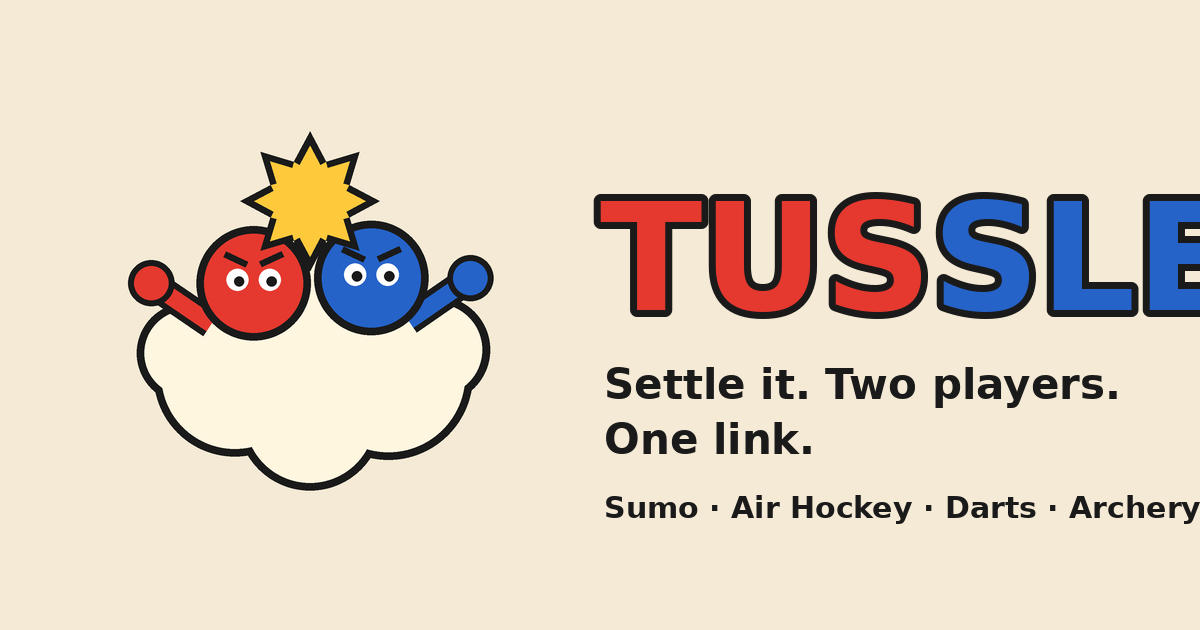
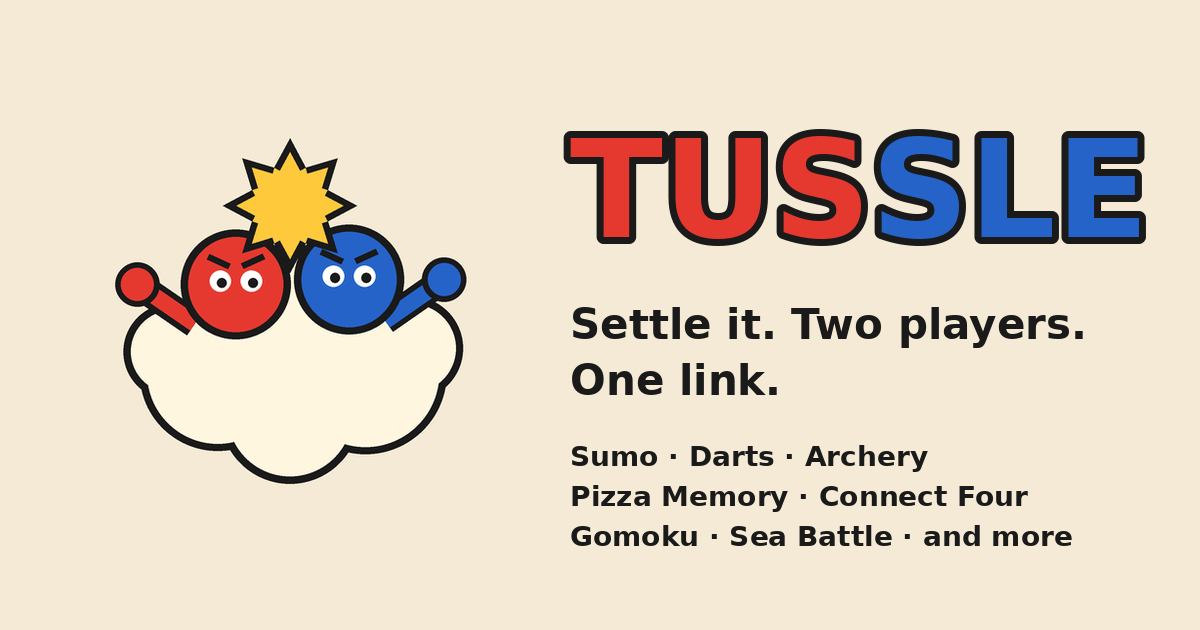
Add files via upload

diff --git a/index.html b/index.html
@@ -1,11 +1,11 @@
-<!doctype html><html><head><meta charset="utf-8"><meta name="viewport" content="width=device-width,initial-scale=1,viewport-fit=cover"><title>Tussle</title><meta property="og:title" content="Tussle: settle it, two players, one link"><meta property="og:description" content="Quick head-to-head mini games: Sumo, Air Hockey, Darts, Archery, Pizza Memory and more. Challenge a friend with one link!"><meta property="og:image" content="__HOST__/og.png"><meta property="og:type" content="website"><meta name="twitter:card" content="summary_large_image"><link rel="apple-touch-icon" href="/icon-192.png"><meta name="mobile-web-app-capable" content="yes"><meta name="apple-mobile-web-app-capable" content="yes"><meta name="apple-mobile-web-app-status-bar-style" content="default"><meta name="apple-mobile-web-app-title" content="Tussle"><link rel="manifest" href="/manifest.json"><meta name="theme-color" content="#f4ead5"><link rel="icon" href="/icon-192.png">
+<!doctype html><html><head><meta charset="utf-8"><meta name="viewport" content="width=device-width,initial-scale=1,viewport-fit=cover"><title>Tussle</title><meta name="description" content="Tussle: quick head-to-head mini games for two. Sumo, Darts, Archery, Pizza Memory, Connect Four, Gomoku, Sea Battle and more. Play a friend with one link, or take on a bot."><meta property="og:site_name" content="Tussle"><meta property="og:type" content="website"><meta property="og:url" content="__HOST__/"><meta property="og:title" content="Tussle: settle it, two players, one link"><meta property="og:description" content="Quick head-to-head mini games: Sumo, Darts, Archery, Pizza Memory, Connect Four, Gomoku, Sea Battle and more. Challenge a friend with one link!"><meta property="og:image" content="__HOST__/og.png"><meta property="og:image:type" content="image/png"><meta property="og:image:width" content="1200"><meta property="og:image:height" content="630"><meta property="og:image:alt" content="Tussle logo: a red and a blue fighter in a dust cloud"><meta name="twitter:card" content="summary_large_image"><meta name="twitter:title" content="Tussle: settle it, two players, one link"><meta name="twitter:image" content="__HOST__/og.png"><link rel="apple-touch-icon" href="/icon-192.png"><meta name="mobile-web-app-capable" content="yes"><meta name="apple-mobile-web-app-capable" content="yes"><meta name="apple-mobile-web-app-status-bar-style" content="default"><meta name="apple-mobile-web-app-title" content="Tussle"><link rel="manifest" href="/manifest.json"><meta name="theme-color" content="#f4ead5"><link rel="icon" href="/icon-192.png">
 <link rel="stylesheet" href="https://fonts.googleapis.com/css2?family=Lilita+One&family=Nunito:wght@700;900&display=swap">
 <style>
 *{box-sizing:border-box;touch-action:manipulation;-webkit-tap-highlight-color:transparent}html{-webkit-text-size-adjust:100%}
 body{margin:0;background:#f4ead5 radial-gradient(#1a1a1a1f 1.2px,transparent 1.5px) 0 0/14px 14px;color:#1a1a1a;font:700 16px Nunito,sans-serif;min-height:100vh;min-height:100dvh;overscroll-behavior-y:contain;-webkit-user-select:none;user-select:none;padding:env(safe-area-inset-top) env(safe-area-inset-left) env(safe-area-inset-bottom) env(safe-area-inset-right)}input{-webkit-user-select:text;user-select:text}
 #a{max-width:440px;margin:auto;padding:46px 14px 40px;text-align:center}
 .L,h1,.big,.sc{font-family:'Lilita One',sans-serif;font-weight:400}
-h1{margin:0;font-size:80px;line-height:1;transform:rotate(-3deg);-webkit-text-stroke:3px #1a1a1a;text-shadow:5px 5px 0 #1a1a1a;letter-spacing:1px}
+h1{margin:0;font-size:56px;line-height:1;transform:rotate(-3deg);-webkit-text-stroke:3px #1a1a1a;text-shadow:5px 5px 0 #1a1a1a;letter-spacing:1px}
 h2{font:400 26px 'Lilita One';margin:10px 0}
 .b{border:4px solid #1a1a1a;border-radius:18px;font:inherit;font-weight:900;min-height:44px;padding:10px 16px;background:#ffc93c;box-shadow:4px 4px 0 #1a1a1a;cursor:pointer;color:#1a1a1a;margin:6px}
 .b:active{transform:translate(3px,3px);box-shadow:1px 1px 0 #1a1a1a}
@@ -23,11 +23,18 @@ input{font:900 20px Nunito;text-align:center;width:100%;padding:10px;border-radi
 .ci{position:relative;width:168px;height:168px;border:4px solid #1a1a1a;border-radius:50%;background:#fff6e0;margin:10px auto;box-shadow:4px 4px 0 #1a1a1a}
 .ci span{position:absolute;line-height:1;cursor:pointer;transform:translate(-50%,-50%);color:#1a1a1a;padding:2px}
 .k:last-child:nth-child(odd){grid-column:1/-1;transform:rotate(-1deg)}.bad{animation:sh .3s}@keyframes fly{from{transform:translateY(150px) scale(1.6);opacity:.3}to{transform:none;opacity:1}}@keyframes sh{25%{transform:translateX(-8px)}75%{transform:translateX(8px)}}
-.ban{border:4px solid #1a1a1a;border-radius:20px;box-shadow:4px 4px 0 #1a1a1a;padding:14px 8px 12px;margin:0 0 12px}.bl{width:100%;height:60px;margin:6px 0;background:#2563c9;color:#fff6e0;font:400 24px 'Lilita One',sans-serif}
+.ban{background-image:radial-gradient(#ffffff40 2px,transparent 2.5px);background-size:16px 16px;border:4px solid #1a1a1a;border-radius:20px;box-shadow:4px 4px 0 #1a1a1a;padding:14px 8px 12px;margin:0 0 12px}.bl{width:100%;height:60px;margin:6px 0;background:#2563c9;color:#fff6e0;font:400 24px 'Lilita One',sans-serif}
+.hero{display:block;margin:0 auto;width:min(70%,260px);animation:wob 3.2s ease-in-out infinite}@keyframes wob{0%,100%{transform:translateY(0) rotate(-1.5deg)}50%{transform:translateY(-7px) rotate(1.5deg)}}
+.sec{display:flex;align-items:center;gap:8px;font:400 22px 'Lilita One',sans-serif;margin:20px 4px 8px;text-align:left}.sec i{display:block;width:14px;height:14px;border:3px solid #1a1a1a;border-radius:4px;transform:rotate(12deg)}
+.me{display:flex;align-items:center;gap:10px;background:#fff6e0;border:4px solid #1a1a1a;border-radius:18px;padding:5px 10px;margin:8px 0;box-shadow:3px 3px 0 #1a1a1a}.me input{border:0;margin:0;background:transparent;text-align:left;box-shadow:none;padding:6px;min-width:0;flex:1}
+.av{display:inline-flex;align-items:center;justify-content:center;width:38px;height:38px;border-radius:50%;border:3px solid #1a1a1a;color:#fff6e0;font:400 20px 'Lilita One',sans-serif;flex:none}
+.vs{display:flex;align-items:center;justify-content:center;gap:8px;margin:8px 0;font:900 17px Nunito}.vs .L{font-size:22px;color:#e5392f}
+.board{background:#fff6e0;border:4px solid #1a1a1a;border-radius:18px;box-shadow:4px 4px 0 #1a1a1a;padding:10px;margin:22px 0 8px}.sbr{display:flex;align-items:center;justify-content:center;gap:12px;margin:6px 0;font:400 34px 'Lilita One',sans-serif}
+.k{position:relative}.tg{position:absolute;top:8px;right:8px;font:900 10px Nunito;background:#1a1a1a;color:#fff6e0;border-radius:8px;padding:2px 7px;letter-spacing:.5px}.k:active{transform:translate(3px,3px)!important}
 .cf{position:fixed;top:-20px;width:10px;height:14px;z-index:9;pointer-events:none;animation:fall linear forwards}@keyframes fall{to{transform:translateY(110vh) rotate(720deg)}}
 .bnc{animation:bnc .6s ease-in-out infinite}@keyframes bnc{50%{transform:translateY(-16px)}}.sad{animation:sad 1.2s ease-in-out infinite}@keyframes sad{50%{transform:rotate(6deg)}}
-#mt{position:fixed;top:8px;right:8px;margin:0;padding:4px 10px;font-size:12px;z-index:5;box-shadow:2px 2px 0 #1a1a1a;border-width:3px}
-</style></head><body><button id="mt" class="b" onclick="tm()">SOUND ON</button><div id="a"></div><script src="/b.js"></script><script>
+#mt{position:fixed;top:calc(8px + env(safe-area-inset-top));right:10px;margin:0;padding:0;width:44px;height:44px;border-radius:50%;display:flex;align-items:center;justify-content:center;z-index:5;box-shadow:2px 2px 0 #1a1a1a;border-width:3px}
+</style></head><body><button id="mt" class="b" onclick="tm()" aria-label="Sound"></button><div id="a"></div><script src="/b.js"></script><script>
 const $=s=>document.querySelector(s),K='stroke="#1a1a1a" stroke-width="3"',V=b=>'<svg viewBox="0 0 80 80" width="84" height="84">'+b+'</svg>';
 const rng=s=>()=>{s|=0;s=s+0x6D2B79F5|0;let t=Math.imul(s^s>>>15,1|s);t=t+Math.imul(t^t>>>7,61|t)^t;return((t^t>>>14)>>>0)/4294967296};
 const DT='<svg viewBox="0 0 40 90" width="20" height="45"><polygon points="20,2 24,26 16,26" fill="#c9c9c9" stroke="#1a1a1a" stroke-width="2"/><rect x="15" y="26" width="10" height="26" fill="#2563c9" stroke="#1a1a1a" stroke-width="2"/><rect x="18" y="52" width="4" height="12" fill="#1a1a1a"/><polygon points="20,60 4,86 20,76 36,86" fill="#e5392f" stroke="#1a1a1a" stroke-width="2"/></svg>';
@@ -63,7 +70,7 @@ function snd(k){if(mute)return;try{AC=AC||new(window.AudioContext||window.webkit
  for(const[f,d,w]of S){const o=AC.createOscillator(),g=AC.createGain();o.type=w||'sine';o.frequency.value=f;g.gain.setValueAtTime(.12,t);g.gain.exponentialRampToValueAtTime(.001,t+d);o.connect(g);g.connect(AC.destination);o.start(t);o.stop(t+d);t+=d*.9}}catch(e){}}
 const vib=p=>{if(!mute&&navigator.vibrate)try{navigator.vibrate(p)}catch(e){}};
 document.addEventListener('pointerdown',()=>{try{AC=AC||new(window.AudioContext||window.webkitAudioContext)();AC.resume()}catch(e){}},{once:true});
-function tm(){mute=!mute;localStorage.mute=mute?'1':'';$('#mt').textContent=mute?'SOUND OFF':'SOUND ON'}
+function tm(){mute=!mute;localStorage.mute=mute?'1':'';$('#mt').innerHTML=mute?SPK0:SPK1}
 function confetti(){const cs=['#e5392f','#2563c9','#ffc93c','#2f9e5b','#ff7a2f'];for(let i=0;i<70;i++){const e=document.createElement('div');e.className='cf';e.style.cssText='left:'+Math.random()*100+'vw;background:'+cs[i%5]+';animation-duration:'+(2+Math.random()*2.5)+'s;animation-delay:'+Math.random()*.6+'s';document.body.appendChild(e);setTimeout(()=>e.remove(),5500)}}
 const ch=(cx,col,m)=>m=='w'?'<g class="bnc" style="transform-origin:'+cx+'px 100px"><circle cx="'+cx+'" cy="70" r="36" fill="'+col+'" '+K+'/><path d="M'+(cx-30)+' 52L'+(cx-48)+' 22M'+(cx+30)+' 52L'+(cx+48)+' 22" '+K+' stroke-linecap="round"/><circle cx="'+(cx-12)+'" cy="64" r="5" fill="#fff"/><circle cx="'+(cx+12)+'" cy="64" r="5" fill="#fff"/><path d="M'+(cx-14)+' 80Q'+cx+' 94 '+(cx+14)+' 80" '+K+' fill="none"/></g>'
 :m=='l'?'<g class="sad" style="transform-origin:'+cx+'px 120px"><ellipse cx="'+cx+'" cy="108" rx="40" ry="24" fill="'+col+'" '+K+'/><path d="M'+(cx-18)+' 98l8 8m0-8l-8 8M'+(cx+10)+' 98l8 8m0-8l-8 8" '+K+' fill="none"/><path d="M'+(cx-12)+' 121Q'+cx+' 113 '+(cx+12)+' 121" '+K+' fill="none"/></g>'
@@ -78,7 +85,13 @@ G.uttt=['Ultimate Tic Tac Toe','Nine boards, one win','#e5392f','#fff6e0',V('<pa
 G.sea=['Sea Battle','Sink their fleet','#0e7490','#fff6e0',V('<rect x="6" y="50" width="68" height="22" rx="6" fill="#38bdf8" '+K+'/><path d="M16 50L22 34H58L66 50Z" fill="#fff6e0" '+K+'/><rect x="34" y="22" width="12" height="12" fill="#e5392f" '+K+'/><path d="M40 22V12" stroke="#1a1a1a" stroke-width="3"/>')];
 const GAMES10=['sumo','darts','archery','pizza','spot','c4','gomoku','dots','uttt','sea'];
 const D={sumo:'Two blobs, one shrinking platform. Shove your opponent off the edge before they shove you!',darts:'Take turns throwing darts. Stop the crosshair near the bullseye for the biggest score.',archery:'Take turns shooting arrows at the target. Wind pushes your arrow, so aim against it!',pizza:'Memorize the pizza, then rebuild it from memory before your opponent does.',spot:'Two circles share one symbol. Be the first to tap it!',c4:'Drop your discs and be the first to get four in a row horizontally, vertically or diagonally.',gomoku:'Place your stones on the board and be the first to get five in a row horizontally, vertically or diagonally.',dots:'Take turns drawing lines between dots. Complete a box to claim it and go again. Own the most boxes to win.',uttt:'Play on a big board with nine small tic-tac-toe games. Where you play decides which small board your opponent must play in next. Win three small boards in a row to win.',sea:'Your fleet is hidden. Take turns firing at the enemy waters. A hit lets you shoot again. Sink all five ships to win.'};
-Object.assign(HOW,{c4:'Tap a column to drop your disc.<br>It falls to the lowest free spot.<br>Connect four in any direction to win.',gomoku:'Tap an empty point to place a stone.<br>Take turns with your opponent.<br>Five in a row in any direction wins.',dots:'Tap a line between two dots.<br>Close all four sides of a box to claim it and play again.<br>Most boxes at the end wins.',uttt:'You must play in the small board matching where your opponent just played.<br>Win a small board to claim it.<br>Claim three small boards in a row to win.',sea:'Press Shuffle until you like your fleet, then Ready.<br>Tap the enemy waters to fire. A hit means you shoot again.<br>Sink all five ships to win.'});
+Object.assign(HOW,{c4:'Tap a column to drop your disc.<br>It falls to the lowest free spot.<br>Connect four in any direction to win.',gomoku:'Tap an empty point to place a stone.<br>Take turns with your opponent.<br>Five in a row in any direction wins.',dots:'Tap a line between two dots.<br>Close all four sides of a box to claim it and play again.<br>Most boxes at the end wins.',uttt:'You must play in the small board matching where your opponent just played.<br>Win a small board to claim it.<br>Claim three small boards in a row to win.',sea:'Drag your ships into position and tap a ship to rotate it. Press Ready.<br>Tap the enemy waters to fire. A hit means you shoot again.<br>Sink all five ships to win.'});
+const TAG={sumo:'LIVE',darts:'TURNS',archery:'TURNS',pizza:'RACE',spot:'RACE',c4:'TURNS',gomoku:'TURNS',dots:'TURNS',uttt:'TURNS',sea:'TURNS'};
+const SEC=[['ACTION & SKILL',['sumo','darts','archery','pizza','spot'],'#e5392f'],['BOARD GAMES',['c4','gomoku','dots','uttt','sea'],'#2563c9']];
+const cardH=g=>'<button class="b k" style="background:'+G[g][2]+';color:'+G[g][3]+'" onclick="openGame(\''+g+'\')"><span class="tg">'+TAG[g]+'</span>'+G[g][4]+G[g][0]+'<small>'+G[g][1]+'</small></button>';
+function nmIn(v){nm=cn(v);localStorage.name=nm;const a=document.querySelector('.av');if(a)a.textContent=(nm[0]||'?').toUpperCase()}
+const SPK1='<svg viewBox="0 0 24 24" width="22" height="22" fill="none" stroke="#1a1a1a" stroke-width="2.5" stroke-linecap="round" stroke-linejoin="round"><path d="M4 9v6h4l5 4V5L8 9z" fill="#ffc93c"/><path d="M16 9a4 4 0 010 6M18.5 6.5a8 8 0 010 11"/></svg>';
+const SPK0='<svg viewBox="0 0 24 24" width="22" height="22" fill="none" stroke="#1a1a1a" stroke-width="2.5" stroke-linecap="round" stroke-linejoin="round"><path d="M4 9v6h4l5 4V5L8 9z" fill="#cbd5e1"/><path d="M17 9l5 6M22 9l-5 6"/></svg>';
 function cvInit(w,h){$('#gm').innerHTML='<canvas id="cv" width="'+w*2+'" height="'+h*2+'" style="width:100%;max-width:'+w+'px;touch-action:none;border:4px solid #1a1a1a;border-radius:16px;background:#fff6e0;box-shadow:4px 4px 0 #1a1a1a;display:block;margin:0 auto"></canvas>'+(cur=='sumo'?'<button class="b cta" id="dsh" style="width:70%">DASH!</button>':'');
  X.cv=$('#cv');X.cx=X.cv.getContext('2d');let lt=0;
  const mv=e=>{const n=Date.now();if(n-lt<33)return;lt=n;const r=X.cv.getBoundingClientRect();let x=(e.clientX-r.left)/r.width*w,y=(e.clientY-r.top)/r.height*h;if(cur=='hockey'&&X.me==1){x=w-x;y=h-y}send({t:'in',x:Math.round(x),y:Math.round(y)})};
@@ -163,11 +176,10 @@ function share(){const u=location.origin+'/?r='+room;
  else if(navigator.clipboard)navigator.clipboard.writeText(u).then(()=>{msg='Invite link copied! Send it to your friend.';ui()});else{msg=u;ui()}}
 function invite(){if(!nm.trim()){msg='Type your name first!';ui();return}if(!room){want=1;send({t:'create'})}else share()}
 function joinNow(){const v=$('#nin').value.trim();if(!v)return;nm=cn(v)||'Player';localStorage.name=nm;send({t:'join',code:pend})}
-function ui(){const a=$('#a');if(view=='play')return;const hero=
-'<svg viewBox="0 0 390 230" width="100%" aria-label="Two characters fighting in a dust cloud"><defs><g id="c"><circle cx="195" cy="150" r="62"/><circle cx="142" cy="166" r="46"/><circle cx="248" cy="166" r="48"/><circle cx="195" cy="190" r="40"/></g></defs><use href="#c" fill="#1a1a1a" stroke="#1a1a1a" stroke-width="9"/><use href="#c" fill="#fff6e0"/><g '+K+'><circle cx="125" cy="108" r="28" fill="#e5392f"/><circle cx="268" cy="104" r="28" fill="#2563c9"/><path d="M98 140L56 118M296 136L338 114" stroke-width="12" stroke-linecap="round"/><polygon points="241,60 220.9,70.7 227.5,92.5 205.7,85.9 195,106 184.3,85.9 162.5,92.5 169.1,70.7 149,60 169.1,49.3 162.5,27.5 184.3,34.1 195,14 205.7,34.1 227.5,27.5 220.9,49.3" fill="#ffc93c"/></g><g fill="#fff"><circle cx="117" cy="110" r="6"/><circle cx="133" cy="110" r="6"/><circle cx="260" cy="106" r="6"/><circle cx="276" cy="106" r="6"/></g><g fill="#1a1a1a"><circle cx="119" cy="112" r="3"/><circle cx="131" cy="112" r="3"/><circle cx="262" cy="108" r="3"/><circle cx="274" cy="108" r="3"/></g><text x="195" y="62" text-anchor="middle" font-family="Lilita One" font-size="21" fill="#e5392f" transform="rotate(-8 195 58)">POW!</text></svg>';
- if(view=='name'){a.innerHTML='<h1><span style="color:#e5392f">TUS</span><span style="color:#2563c9">SLE</span></h1>'+hero+'<h2>You\'ve been challenged!</h2><p>Who\'s tussling?</p><input id="nin" maxlength="14" placeholder="Your name" autofocus><button class="b cta" onclick="joinNow()">JOIN THE FIGHT</button>';return}
+function ui(){const a=$('#a');if(view=='play')return;const hero='<img class="hero" src="/logo.png" alt="Tussle logo">';
+ if(view=='name'){a.innerHTML=hero+'<h1><span style="color:#e5392f">TUS</span><span style="color:#2563c9">SLE</span></h1>'+'<h2>You\'ve been challenged!</h2><p>Who\'s tussling?</p><input id="nin" maxlength="14" placeholder="Your name" autofocus><button class="b cta" onclick="joinNow()">JOIN THE FIGHT</button>';return}
  if(view=='game'){const g=selG,H=G[g];
-  a.innerHTML='<div class="ban" style="background:'+H[2]+'"><div style="transform:scale(1.5);height:120px;padding-top:20px">'+H[4]+'</div><div class="L" style="font-size:32px;color:#fff6e0;-webkit-text-stroke:2px #1a1a1a;text-shadow:3px 3px 0 #1a1a1a;margin-top:6px">'+H[0].toUpperCase()+'</div></div>'
+  a.innerHTML='<div class="ban" style="background-color:'+H[2]+'"><div style="transform:scale(1.5);height:120px;padding-top:20px">'+H[4]+'</div><div class="L" style="font-size:32px;color:#fff6e0;-webkit-text-stroke:2px #1a1a1a;text-shadow:3px 3px 0 #1a1a1a;margin-top:6px">'+H[0].toUpperCase()+'</div></div>'
   +(msg?'<div class="pill">'+msg+'</div>':'')
   +'<div class="pill" style="text-align:left;word-break:normal;font-size:17px;box-shadow:none">'+D[g]+(howOpen?'<hr><div style="font-size:15px">'+HOW[g]+'</div>':'')+'</div>'
   +'<button class="b" onclick="howOpen=!howOpen;ui()" style="background:#cbd5e1;font-size:15px;padding:8px 14px">'+(howOpen?'HIDE HOW TO PLAY':'HOW TO PLAY')+'</button>'
@@ -179,11 +191,11 @@ function ui(){const a=$('#a');if(view=='play')return;const hero=
  if(view=='res'){const d=last,g=d.g,T={me:'YOU WIN!',opp:o.toUpperCase()+' WINS!',tie:"IT'S A TIE!",left:o.toUpperCase()+' LEFT'}[d.win];
   if(!d.fx){d.fx=1;if(d.win=='me'){confetti();snd('win');vib([80,40,120])}else if(d.win=='opp')snd('lose')}a.innerHTML=fx(d.win)+'<h2 style="font-size:40px">'+T+'</h2><div class="pill">'+(nm||'You')+': '+d.sc.me+(aimG()?' pts':'')+'<br>'+o+': '+d.sc.opp+(aimG()?' pts':'')+'</div>'+(room&&n>1?'<div class="pill">'+(nm||'You')+' '+wins.me+' – '+wins.opp+' '+o+'</div><button class="b" onclick="rematch(\''+g+'\')">Rematch</button>':'')+'<button class="b" onclick="home()">All games</button>';return}
  const link=room?location.origin+'/?r='+room:'';
- a.innerHTML='<h1><span style="color:#e5392f">TUS</span><span style="color:#2563c9">SLE</span></h1>'+hero+'<div class="L" style="font-size:19px;margin:4px 0 10px">Settle it. Two players. One link.</div>'+(msg?'<div class="pill">'+msg+'</div>':'')
- +(room&&n>1?'<div class="pill">'+(nm||'You')+' vs '+o+'</div>'+(o.includes('(bot)')?'<div class="L" style="font-size:15px;margin-bottom:6px">Playing a bot. Hit SHARE INVITE LINK to play a real friend!</div>':''):room?'<div class="pill">Waiting for your friend to join…<br><small>'+link+'</small></div>':'')
- +'<input id="nin" maxlength="14" placeholder="Your name" value="'+nm.replace(/"/g,'')+'" oninput="nm=cn(this.value);localStorage.name=nm"><button class="b cta" onclick="invite()">'+(room?'SHARE INVITE LINK':'CHALLENGE A FRIEND')+'</button><h2 style="text-align:left">PICK YOUR FIGHT</h2><div class="grid">'
- +GAMES10.map(g=>'<button class="b k" style="background:'+G[g][2]+';color:'+G[g][3]+'" onclick="openGame(\''+g+'\')">'+G[g][4]+G[g][0]+'<small>'+G[g][1]+'</small></button>').join('')+'</div>'
- +'<div class="pill" style="margin-top:22px"><div class="L" style="font-size:19px">RIVALRY RECORD</div>'+(nm||'You')+' '+wins.me+' – '+wins.opp+' '+o+'</div>'}
-$('#mt').textContent=mute?'SOUND OFF':'SOUND ON';ui();conn();
+ a.innerHTML=hero+'<h1><span style="color:#e5392f">TUS</span><span style="color:#2563c9">SLE</span></h1>'+'<div class="L" style="font-size:19px;margin:4px 0 10px">Settle it. Two players. One link.</div>'+(msg?'<div class="pill">'+msg+'</div>':'')
+ +(room&&n>1?'<div class="vs"><span class="av" style="background:#e5392f">'+(nm||'Y')[0].toUpperCase()+'</span><b>'+(nm||'You')+'</b><span class="L">VS</span><b>'+o+'</b><span class="av" style="background:#2563c9">'+o[0].toUpperCase()+'</span></div>'+(o.includes('(bot)')?'<div class="L" style="font-size:15px;margin-bottom:6px">Playing a bot. Hit SHARE INVITE LINK to play a real friend!</div>':''):room?'<div class="pill">Waiting for your friend to join…<br><small>'+link+'</small></div>':'')
+ +'<div class="me"><span class="av" style="background:#e5392f">'+((nm||'?')[0]).toUpperCase()+'</span><input id="nin" maxlength="14" placeholder="Your name" value="'+nm.replace(/"/g,'')+'" oninput="nmIn(this.value)"></div><button class="b cta" onclick="invite()">'+(room?'SHARE INVITE LINK':'CHALLENGE A FRIEND')+'</button>'
+ +SEC.map(s=>'<div class="sec"><i style="background:'+s[2]+'"></i>'+s[0]+'</div><div class="grid">'+s[1].map(cardH).join('')+'</div>').join('')
+ +'<div class="board"><div class="L" style="font-size:19px">RIVALRY RECORD</div><div class="sbr"><span class="av" style="background:#e5392f">'+(nm||'Y')[0].toUpperCase()+'</span>'+wins.me+' – '+wins.opp+'<span class="av" style="background:#2563c9">'+o[0].toUpperCase()+'</span></div><small style="font-weight:900">'+(nm||'You')+' vs '+o+'</small></div>'}
+$('#mt').innerHTML=mute?SPK0:SPK1;ui();conn();
 if("serviceWorker"in navigator)navigator.serviceWorker.register("/sw.js");
 </script></body></html>

diff --git a/b.js b/b.js
@@ -1,5 +1,28 @@
 // Board game renderers (client). Uses globals from index.html: $, pid, cur, on, X, send, snd, vib
 const BG={c4:1,gomoku:1,dots:1,uttt:1,sea:1};
+const SHN=[5,4,3,3,2],CS=30;
+function shipSvg(id,len){const L=len*CS,m=CS/2,S='stroke="#1a1a1a" stroke-width="2"';
+ const rc=(x,w,h,f)=>'<rect x="'+x+'" y="'+(m-h/2)+'" width="'+w+'" height="'+h+'" rx="2" fill="'+f+'" '+S+'/>';
+ const gun=x=>'<circle cx="'+x+'" cy="'+m+'" r="4.5" fill="#475569" '+S+'/><path d="M'+x+' '+m+'H'+(x+9)+'" stroke="#1a1a1a" stroke-width="3"/>';
+ let g=id==3?'<rect x="3" y="'+(m-8)+'" width="'+(L-8)+'" height="16" rx="8" fill="#64748b" '+S+'/>':'<path d="M3 '+(m-10)+'H'+(L-12)+'L'+(L-2)+' '+m+'L'+(L-12)+' '+(m+10)+'H3Z" fill="#94a3b8" '+S+' stroke-linejoin="round"/>';
+ if(id==0)g+='<path d="M9 '+m+'H'+(L-18)+'" stroke="#fff6e0" stroke-width="3" stroke-dasharray="6 4"/>'+rc(L*.55,12,8,'#e5392f')+rc(L*.18,10,8,'#fff6e0');
+ else if(id==1)g+=gun(L*.2)+gun(L*.72)+rc(L*.42,16,12,'#e2e8f0')+rc(L*.36,5,7,'#e5392f');
+ else if(id==2)g+=gun(L*.2)+rc(L*.42,18,12,'#e2e8f0')+rc(L*.6,6,9,'#e5392f');
+ else if(id==3)g+=rc(L*.4,14,10,'#475569')+'<path d="M'+(L*.4+7)+' '+(m-5)+'V'+(m-13)+'H'+(L*.4+14)+'" stroke="#1a1a1a" stroke-width="2.5" fill="none"/>';
+ else g+=gun(L*.28)+rc(L*.5,12,9,'#e2e8f0');
+ return g}
+const cellsOf=o=>{const c=[];for(let k=0;k<SHN[o.id];k++)c.push(o.h?o.y*10+o.x+k:(o.y+k)*10+o.x);return c};
+const fitOk=(fl,o)=>{const len=SHN[o.id];if(o.x<0||o.y<0||(o.h?o.x+len>10||o.y>9:o.y+len>10||o.x>9))return false;const occ=new Set();fl.forEach(p=>{if(p.id!=o.id)cellsOf(p).forEach(c=>occ.add(c))});return cellsOf(o).every(c=>!occ.has(c))};
+const randFleet=()=>{for(;;){const fl=[];let ok=true;for(let id=0;id<5&&ok;id++){let t=0,o;do{o={id,x:Math.floor(Math.random()*10),y:Math.floor(Math.random()*10),h:Math.random()<.5};t++}while(!fitOk(fl,o)&&t<300);if(t>=300)ok=false;else fl.push(o)}if(ok)return fl}};
+const fleetFromBoard=b=>[0,1,2,3,4].map(id=>{const c=[];b.forEach((v,i)=>{if(v==id)c.push(i)});return{id,x:c[0]%10,y:Math.floor(c[0]/10),h:c.length>1?c[1]-c[0]==1:true}});
+const sunkShips=sk=>{let t=0;return sk.map(cs=>{cs=cs.slice().sort((a,b)=>a-b);const len=cs.length,id=len==5?0:len==4?1:len==2?4:(t++?3:2);return{id,x:cs[0]%10,y:Math.floor(cs[0]/10),h:len>1?cs[1]-cs[0]==1:true}})};
+const marksOf=a=>{const o={};a.forEach((v,i)=>{if(v)o[i]=v});return o};
+function seaSvg(w,ships,marks){let s='<rect width="300" height="300" rx="10" fill="#38bdf8"/>';
+ for(let i=1;i<10;i++)s+='<path d="M'+i*CS+' 0V300M0 '+i*CS+'H300" stroke="#ffffff66" stroke-width="1.5"/>';
+ for(const o of ships)s+='<g transform="'+(o.h?'translate('+o.x*CS+','+o.y*CS+')':'translate('+(o.x+1)*CS+','+o.y*CS+') rotate(90)')+'" opacity="'+(o.dim?.55:1)+'">'+shipSvg(o.id,SHN[o.id])+'</g>';
+ for(const i in marks){const x=i%10*CS+CS/2,y=Math.floor(i/10)*CS+CS/2;s+=marks[i]==2?'<circle cx="'+x+'" cy="'+y+'" r="10" fill="#e5392f" stroke="#1a1a1a" stroke-width="2.5"/><circle cx="'+x+'" cy="'+y+'" r="4" fill="#ffc93c"/>':'<circle cx="'+x+'" cy="'+y+'" r="5" fill="#fff" stroke="#0e7490" stroke-width="2"/>'}
+ return '<svg viewBox="-2 -2 304 304" width="100%" style="max-width:'+w+'px;display:block;margin:6px auto;border:3px solid #1a1a1a;border-radius:12px;background:#0e7490;touch-action:none">'+s+'</svg>'}
+const cellAt=(e,box)=>{const sv=box.querySelector('svg'),r=sv.getBoundingClientRect(),k=304/r.width;return[Math.floor(((e.clientX-r.left)*k-2)/CS),Math.floor(((e.clientY-r.top)*k-2)/CS)]};
 const BR={
 c4(d,me,mine){const W=50;const cells=d.g.map((v,i)=>{const r=Math.floor(i/7),c=i%7,cx=c*W+W/2+5,cy=r*W+W/2+5,col=v<0?'#fff6e0':v==me?'#e5392f':'#2563c9',hl=d.line&&d.line.includes(i);return '<circle cx="'+cx+'" cy="'+cy+'" r="20" fill="'+col+'" stroke="'+(hl?'#ffc93c':'#1a1a1a')+'" stroke-width="'+(hl?6:3)+'"/>'+(i==d.last?'<circle cx="'+cx+'" cy="'+cy+'" r="7" fill="none" stroke="#fff" stroke-width="3"/>':'')}).join('');
  $('#bb').innerHTML='<svg viewBox="0 0 360 310" width="100%" style="max-width:360px"><rect x="2" y="2" width="356" height="306" rx="16" fill="#f4a261" stroke="#1a1a1a" stroke-width="4"/>'+cells+[0,1,2,3,4,5,6].map(c=>'<rect data-c="'+c+'" x="'+(c*W+5)+'" y="0" width="'+W+'" height="310" fill="transparent" style="cursor:pointer"/>').join('')+'</svg>';
@@ -18,22 +41,26 @@ dots(d,me,mine){const S=56,P=22,L=5*S+2*P,col=v=>v==me?'#e5392f':'#2563c9';let s
  const a=d.b.filter(v=>v==me).length,z=d.b.filter(v=>v>=0&&v!=me).length;
  $('#bb').innerHTML='<div class="L" style="font-size:20px">You '+a+' – '+z+' '+on.opp+'</div><svg viewBox="0 0 '+L+' '+L+'" width="100%" style="max-width:340px">'+s+'</svg>';
  $('#bb').querySelectorAll('[data-k]').forEach(e=>e.onpointerdown=()=>{if(mine&&d.win==null)send({t:'in',k:e.dataset.k,r:+e.dataset.r,c:+e.dataset.c})})},
-uttt(d,me,mine){let h='<div style="display:grid;grid-template-columns:repeat(3,1fr);gap:6px;max-width:340px;margin:0 auto">';
+uttt(d,me,mine){let h='<div style="display:grid;grid-template-columns:repeat(3,1fr);gap:8px;max-width:340px;margin:0 auto">';
  for(let b=0;b<9;b++){const w=d.w[b],act=mine&&d.win==null&&w<0&&(d.nx<0||d.nx==b);
-  h+='<div style="position:relative;border:3px solid '+(act?'#ffc93c':'#1a1a1a')+';border-radius:10px;background:'+(act?'#fff3c4':'#fff6e0')+';padding:2px;display:grid;grid-template-columns:repeat(3,1fr);gap:1px">';
-  for(let c=0;c<9;c++){const v=d.c[b*9+c],i=b*9+c;h+='<button data-b="'+b+'" data-c="'+c+'" style="height:34px;border:0;background:'+(i==d.last?'#ffe08a':'transparent')+';font:400 22px \'Lilita One\',sans-serif;color:'+(v==me?'#e5392f':'#2563c9')+';padding:0">'+(v<0?'':v==me?'X':'O')+'</button>'}
+  h+='<div style="position:relative;border:4px solid '+(act?'#ffc93c':'#1a1a1a')+';border-radius:10px;background:'+(act?'#fff3c4':'#fff6e0')+';padding:0;overflow:hidden;display:grid;grid-template-columns:repeat(3,1fr);gap:0">';
+  for(let c=0;c<9;c++){const v=d.c[b*9+c],i=b*9+c;h+='<button data-b="'+b+'" data-c="'+c+'" style="height:34px;border:0;border-right:'+(c%3<2?'2px solid #1a1a1a':'0')+';border-bottom:'+(c<6?'2px solid #1a1a1a':'0')+';background:'+(i==d.last?'#ffe08a':'transparent')+';font:400 22px \'Lilita One\',sans-serif;color:'+(v==me?'#e5392f':'#2563c9')+';padding:0">'+(v<0?'':v==me?'X':'O')+'</button>'}
   if(w==0||w==1)h+='<div style="position:absolute;left:0;top:0;right:0;bottom:0;background:'+(w==me?'#e5392fdd':'#2563c9dd')+';border-radius:6px;color:#fff6e0;font:400 64px/1 \'Lilita One\',sans-serif;display:flex;align-items:center;justify-content:center;pointer-events:none">'+(w==me?'X':'O')+'</div>';else if(w==2)h+='<div style="position:absolute;left:0;top:0;right:0;bottom:0;background:#999c;border-radius:6px;pointer-events:none"></div>';
   h+='</div>'}
  $('#bb').innerHTML=h+'</div>';
  $('#bb').querySelectorAll('button').forEach(e=>e.onpointerdown=()=>{if(mine&&d.win==null)send({t:'in',b:+e.dataset.b,c:+e.dataset.c})})},
-sea(d,me,mine){const sunk=new Set(d.sunk.flat()),dim='<span style="color:#0e7490">•</span>';
- const grid=(fn,click,w)=>{let h='<div style="display:grid;grid-template-columns:repeat(10,1fr);gap:2px;width:'+w+'px;max-width:100%;margin:6px auto;border:3px solid #1a1a1a;border-radius:10px;padding:3px;background:#0e7490">';for(let i=0;i<100;i++){const[bg,tx]=fn(i);h+='<div '+(click?'data-i="'+i+'" ':'')+'style="aspect-ratio:1;background:'+bg+';border-radius:3px;display:flex;align-items:center;justify-content:center;font:400 '+(click?15:10)+'px \'Lilita One\',sans-serif;color:#fff">'+tx+'</div>'}return h+'</div>'};
- const myF=i=>d.eshot[i]==2?['#e5392f','✕']:d.eshot[i]==1?['#e0f2fe',dim]:d.mine[i]>=0?['#334155','']:['#38bdf8',''];
- const enF=i=>sunk.has(i)?['#7f1d1d','✕']:d.myshot[i]==2?['#e5392f','✕']:d.myshot[i]==1?['#e0f2fe',dim]:['#38bdf8',''];
- if(d.ph=='place'){$('#bb').innerHTML='<div class="L" style="font-size:20px">Your fleet</div>'+grid(myF,0,300)+(d.rdy[me]?'':'<button class="b" id="shf">SHUFFLE</button><button class="b" id="rdy" style="background:#e5392f;color:#fff6e0">READY!</button>');
-  const s=$('#shf'),r=$('#rdy');if(s)s.onpointerdown=()=>send({t:'in',rand:1});if(r)r.onpointerdown=()=>send({t:'in',ready:1});return}
- $('#bb').innerHTML='<div class="L" style="font-size:18px">Enemy waters · sunk '+d.sunk.length+'/5</div>'+grid(enF,1,330)+'<div class="L" style="font-size:18px">Your fleet · lost '+d.esunk+'/5</div>'+grid(myF,0,200);
- $('#bb').querySelectorAll('[data-i]').forEach(e=>e.onpointerdown=()=>{const i=+e.dataset.i;if(mine&&d.win==null&&!d.myshot[i])send({t:'in',x:i%10,y:Math.floor(i/10)})})}
+sea(d,me,mine){
+ if(d.ph=='place'){if(!X.fl)X.fl=randFleet();const done=d.rdy[me];
+  $('#bb').innerHTML='<div class="L" style="font-size:18px">'+(done?'Fleet ready!':'Drag ships to move · tap a ship to rotate')+'</div><div id="sw"></div>'+(done?'':'<button class="b" id="rnd">RANDOM</button><button class="b" id="rdy" style="background:#e5392f;color:#fff6e0">READY!</button>');
+  const sw=$('#sw'),draw=()=>{sw.innerHTML=seaSvg(330,X.fl,{})};draw();if(done)return;
+  sw.onpointerdown=e=>{const[cx,cy]=cellAt(e,sw),o=X.fl.find(p=>cellsOf(p).includes(cy*10+cx));if(!o)return;X.dg={o,ox:cx-o.x,oy:cy-o.y,mv:0};try{sw.setPointerCapture(e.pointerId)}catch(x){}if(e.preventDefault)e.preventDefault()};
+  sw.onpointermove=e=>{const g=X.dg;if(!g)return;const[cx,cy]=cellAt(e,sw),n={...g.o,x:cx-g.ox,y:cy-g.oy};if((n.x!=g.o.x||n.y!=g.o.y)&&fitOk(X.fl,n)){g.o.x=n.x;g.o.y=n.y;g.mv=1;draw()}};
+  sw.onpointerup=()=>{const g=X.dg;X.dg=null;if(!g||g.mv)return;const o=g.o;for(const[dx,dy]of[[0,0],[-1,0],[1,0],[0,-1],[0,1],[-2,0],[0,-2],[-3,0],[0,-3],[-4,0],[0,-4]]){const t={...o,h:!o.h,x:o.x+dx,y:o.y+dy};if(fitOk(X.fl,t)){o.h=t.h;o.x=t.x;o.y=t.y;draw();snd('pop');return}}};
+  $('#rnd').onpointerdown=()=>{X.fl=randFleet();draw()};
+  $('#rdy').onpointerdown=()=>send({t:'in',place:X.fl.map(o=>({id:o.id,x:o.x,y:o.y,h:o.h})),ready:1});return}
+ const my=fleetFromBoard(d.mine).map(o=>{o.dim=cellsOf(o).every(i=>d.eshot[i]==2);return o});
+ $('#bb').innerHTML='<div class="L" style="font-size:18px">Enemy waters · sunk '+d.sunk.length+'/5</div><div id="ew">'+seaSvg(330,sunkShips(d.sunk),marksOf(d.myshot))+'</div><div class="L" style="font-size:18px">Your fleet · lost '+d.esunk+'/5</div>'+seaSvg(210,my,marksOf(d.eshot));
+ $('#ew').onpointerdown=e=>{if(!mine||d.win!=null)return;const[cx,cy]=cellAt(e,$('#ew'));if(cx>=0&&cx<10&&cy>=0&&cy<10&&!d.myshot[cy*10+cx])send({t:'in',x:cx,y:cy})}}
 };
 function bs(d){const me=d.ids.indexOf(pid),mine=d.turn==me,pl=cur=='sea'&&d.ph=='place';
  if(!$('#bb')){$('#gm').innerHTML='<div class="sc" id="st"></div><div id="bb"></div>';const c=$('#cd');if(c)c.textContent=''}

diff --git a/boards.js b/boards.js
@@ -179,12 +179,25 @@ const SB = {
     SH.forEach((len, id) => { for (;;) { const h = Math.random() < 0.5, x = rnd(h ? SN - len + 1 : SN), y = rnd(h ? SN : SN - len + 1), cells = []; for (let k = 0; k < len; k++) cells.push(h ? y * SN + x + k : (y + k) * SN + x); if (cells.every(c => b[c] < 0)) { cells.forEach(c => b[c] = id); ships.push(cells); break; } } });
     return { b, ships };
   },
+  build(list) {
+    if (!Array.isArray(list) || list.length != SH.length) return null;
+    const b = Array(100).fill(-1), ships = [];
+    for (const o of list) {
+      const id = +o.id, x = +o.x, y = +o.y, h = !!o.h;
+      if (!Number.isInteger(id) || id < 0 || id >= SH.length || ships[id] || !Number.isInteger(x) || !Number.isInteger(y)) return null;
+      const len = SH[id]; if (x < 0 || y < 0 || (h ? x + len > SN || y >= SN : y + len > SN || x >= SN)) return null;
+      const cells = []; for (let k = 0; k < len; k++) cells.push(h ? y * SN + x + k : (y + k) * SN + x);
+      if (cells.some(c => b[c] >= 0)) return null; cells.forEach(c => b[c] = id); ships[id] = cells;
+    }
+    return ships.every(Boolean) ? { b, ships } : null;
+  },
   init: () => ({ ph: 'place', p: [SB.rand(), SB.rand()], rdy: [0, 0], sh: [Array(100).fill(0), Array(100).fill(0)], sunk: [[], []] }),
   free: rd => rd.s.ph == 'place',
   move(rd, i, d) {
     const s = rd.s;
     if (s.ph == 'place') {
       if (s.rdy[i]) return;
+      if (d.place) { const p = SB.build(d.place); if (!p) return; s.p[i] = p; if (!d.ready) return { stay: 1 }; }
       if (d.rand) { s.p[i] = SB.rand(); return { stay: 1 }; }
       if (d.ready) { s.rdy[i] = 1; if (s.rdy[0] && s.rdy[1]) { s.ph = 'fire'; return { turn: 0 }; } return { stay: 1 }; }
       return;

diff --git a/server.js b/server.js
@@ -2,9 +2,11 @@ const http = require('http'), fs = require('fs'), path = require('path');
 const { WebSocketServer } = require('ws');
 const BG = require('./boards');
 const rooms = {};
-const T = { '/manifest.json': 'application/json', '/sw.js': 'text/javascript', '/icon-192.png': 'image/png', '/icon-512.png': 'image/png', '/og.png': 'image/png', '/b.js': 'text/javascript' };
+const T = { '/manifest.json': 'application/json', '/sw.js': 'text/javascript', '/icon-192.png': 'image/png', '/icon-512.png': 'image/png', '/og.png': 'image/png', '/b.js': 'text/javascript', '/logo.png': 'image/png' };
 const srv = http.createServer((q, s) => {
-  const p = q.url.split('?')[0];
+  let p = q.url.split('?')[0];
+  if (p == '/favicon.ico') p = '/icon-192.png';
+  if (p == '/.well-known/assetlinks.json' && process.env.ASSETLINKS) { s.writeHead(200, { 'Content-Type': 'application/json' }); return s.end(process.env.ASSETLINKS); }
   if (p == '/health') { s.writeHead(200); return s.end('ok'); }
   const f = T[p] ? p.slice(1) : 'index.html';
   fs.readFile(path.join(__dirname, f), (e, d) => {

diff --git a/sw.js b/sw.js
@@ -1,1 +1,8 @@
-self.addEventListener('install',e=>self.skipWaiting());self.addEventListener('fetch',e=>{});
+const C = 'tussle-v2';
+self.addEventListener('install', e => { self.skipWaiting(); e.waitUntil(caches.open(C).then(c => c.addAll(['/', '/b.js', '/manifest.json', '/logo.png', '/icon-192.png', '/icon-512.png'])).catch(() => {})); });
+self.addEventListener('activate', e => e.waitUntil(caches.keys().then(k => Promise.all(k.filter(x => x != C).map(x => caches.delete(x)))).then(() => self.clients.claim())));
+self.addEventListener('fetch', e => {
+  const u = new URL(e.request.url);
+  if (e.request.method != 'GET' || u.origin != location.origin || u.pathname == '/health') return;
+  e.respondWith(fetch(e.request).then(r => { const cp = r.clone(); caches.open(C).then(c => c.put(e.request, cp)).catch(() => {}); return r; }).catch(() => caches.match(e.request).then(m => m || caches.match('/'))));
+});
